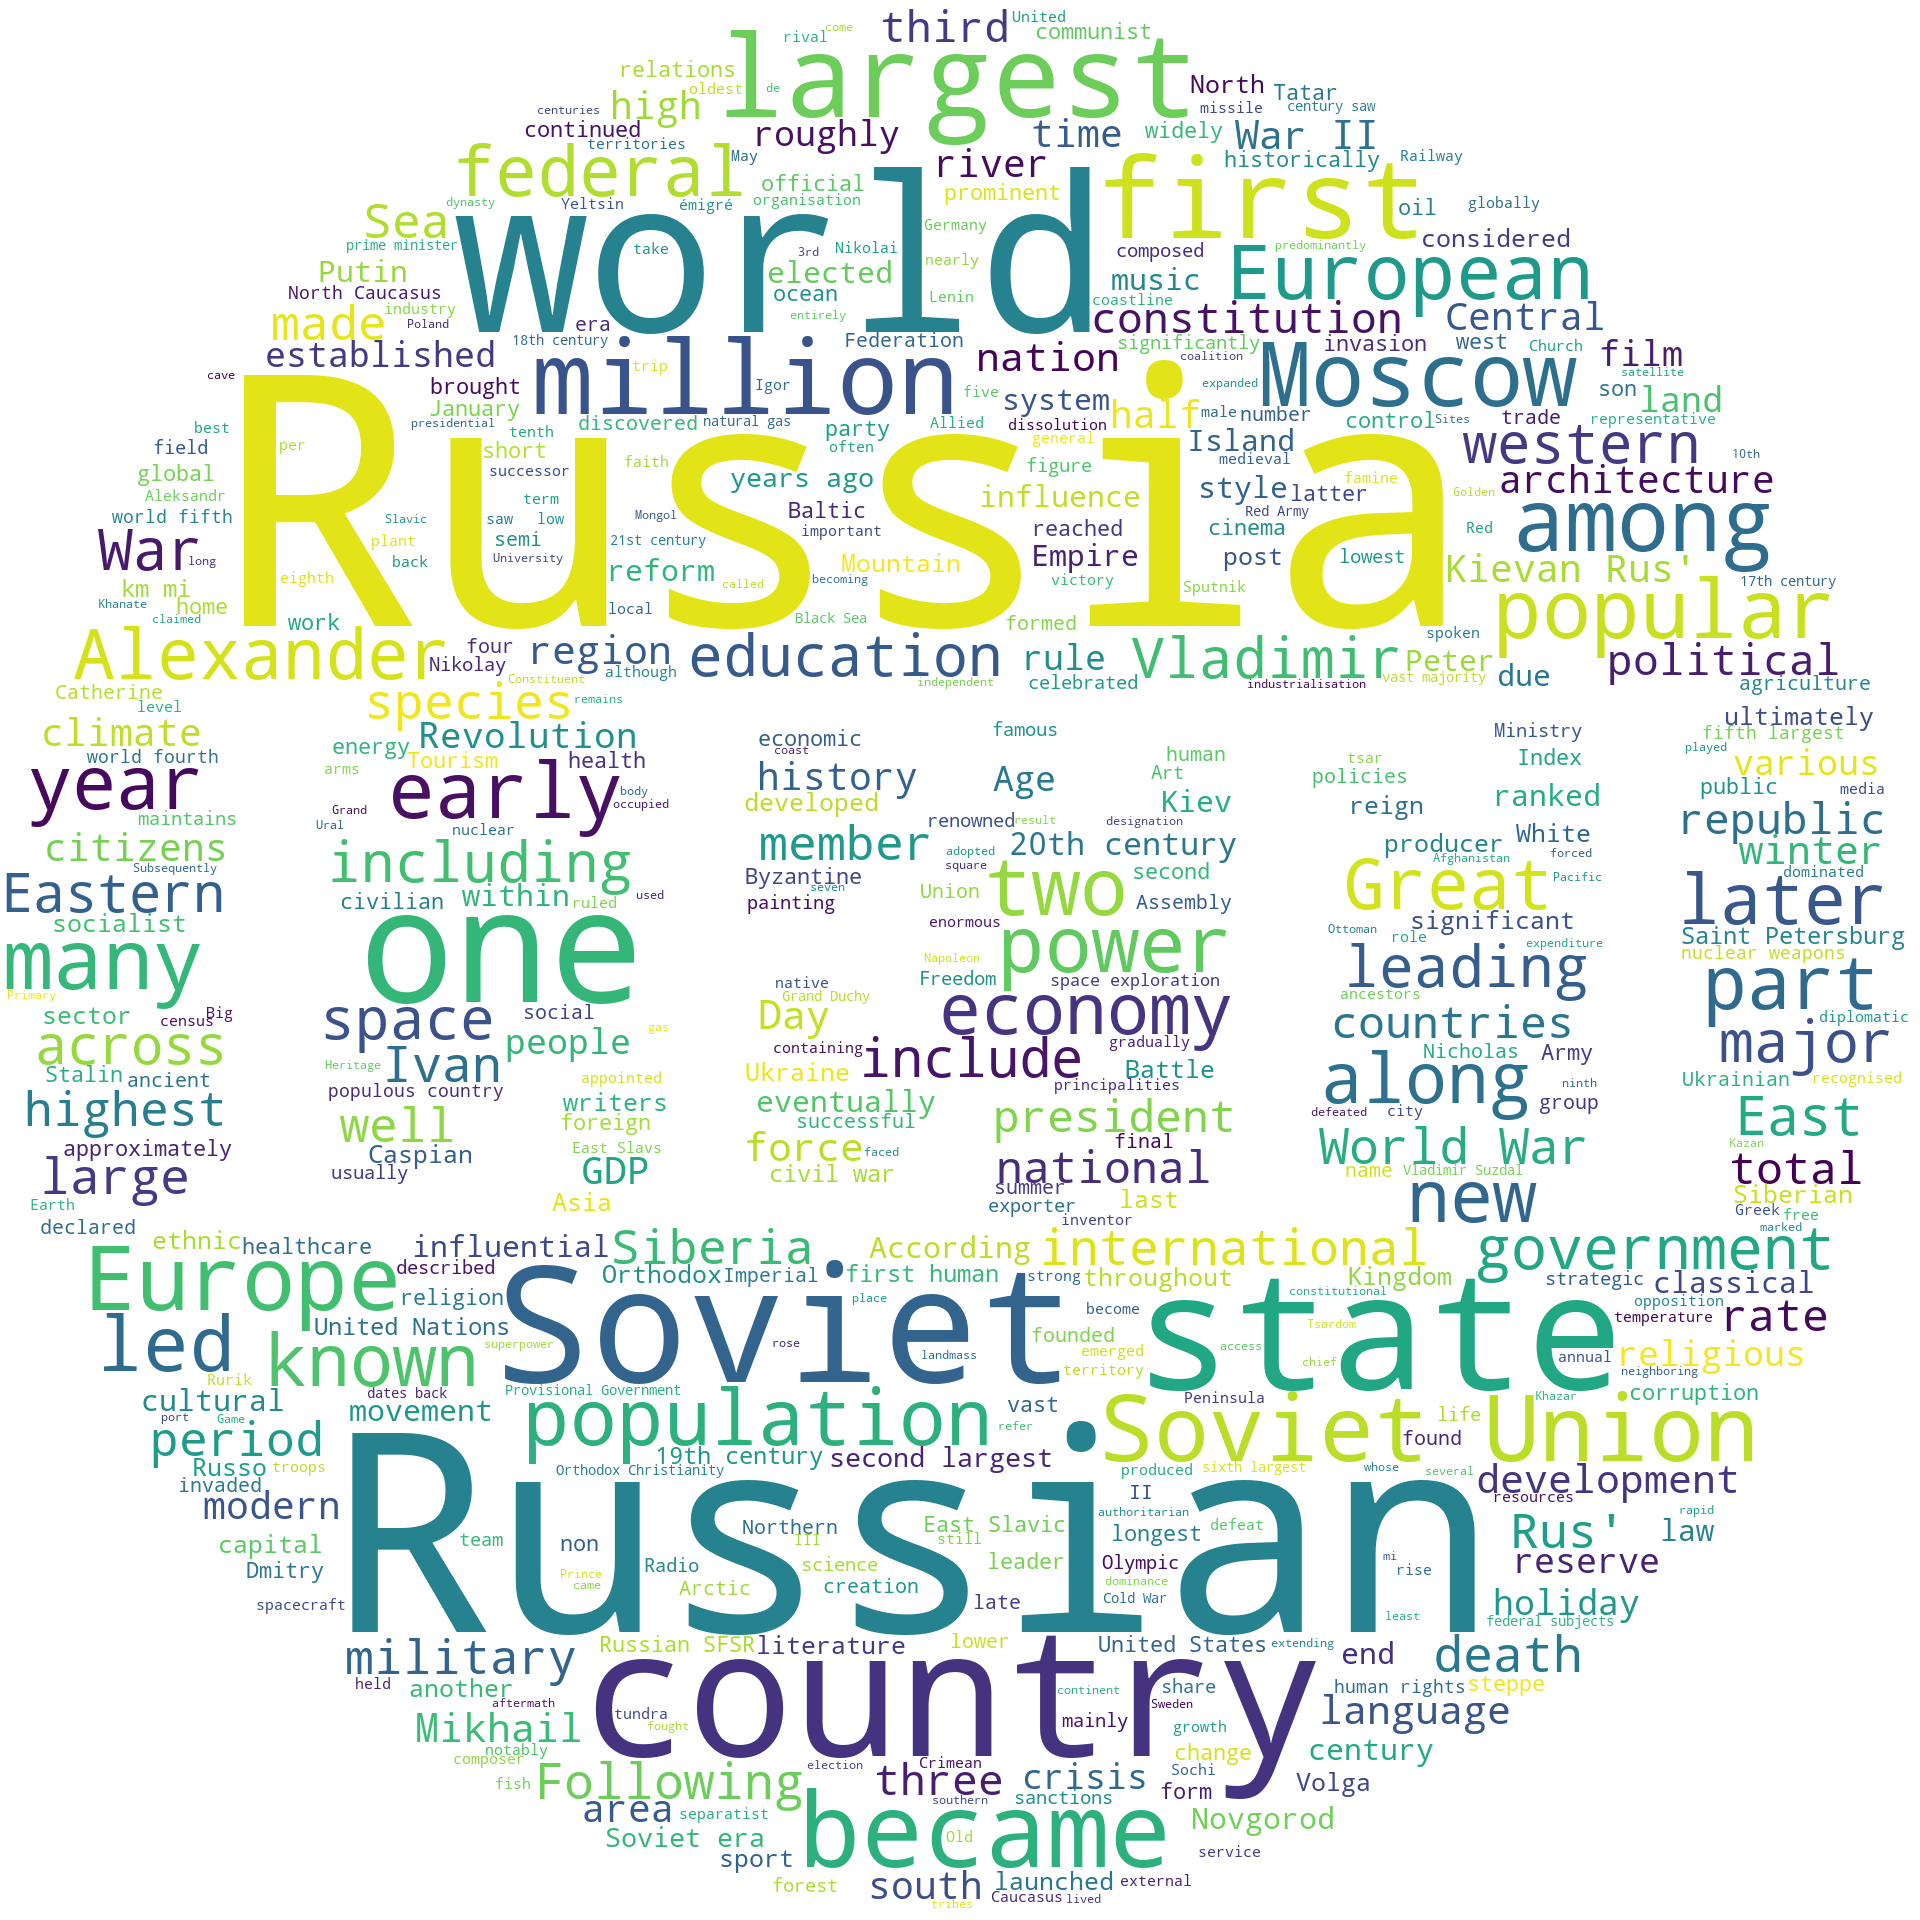
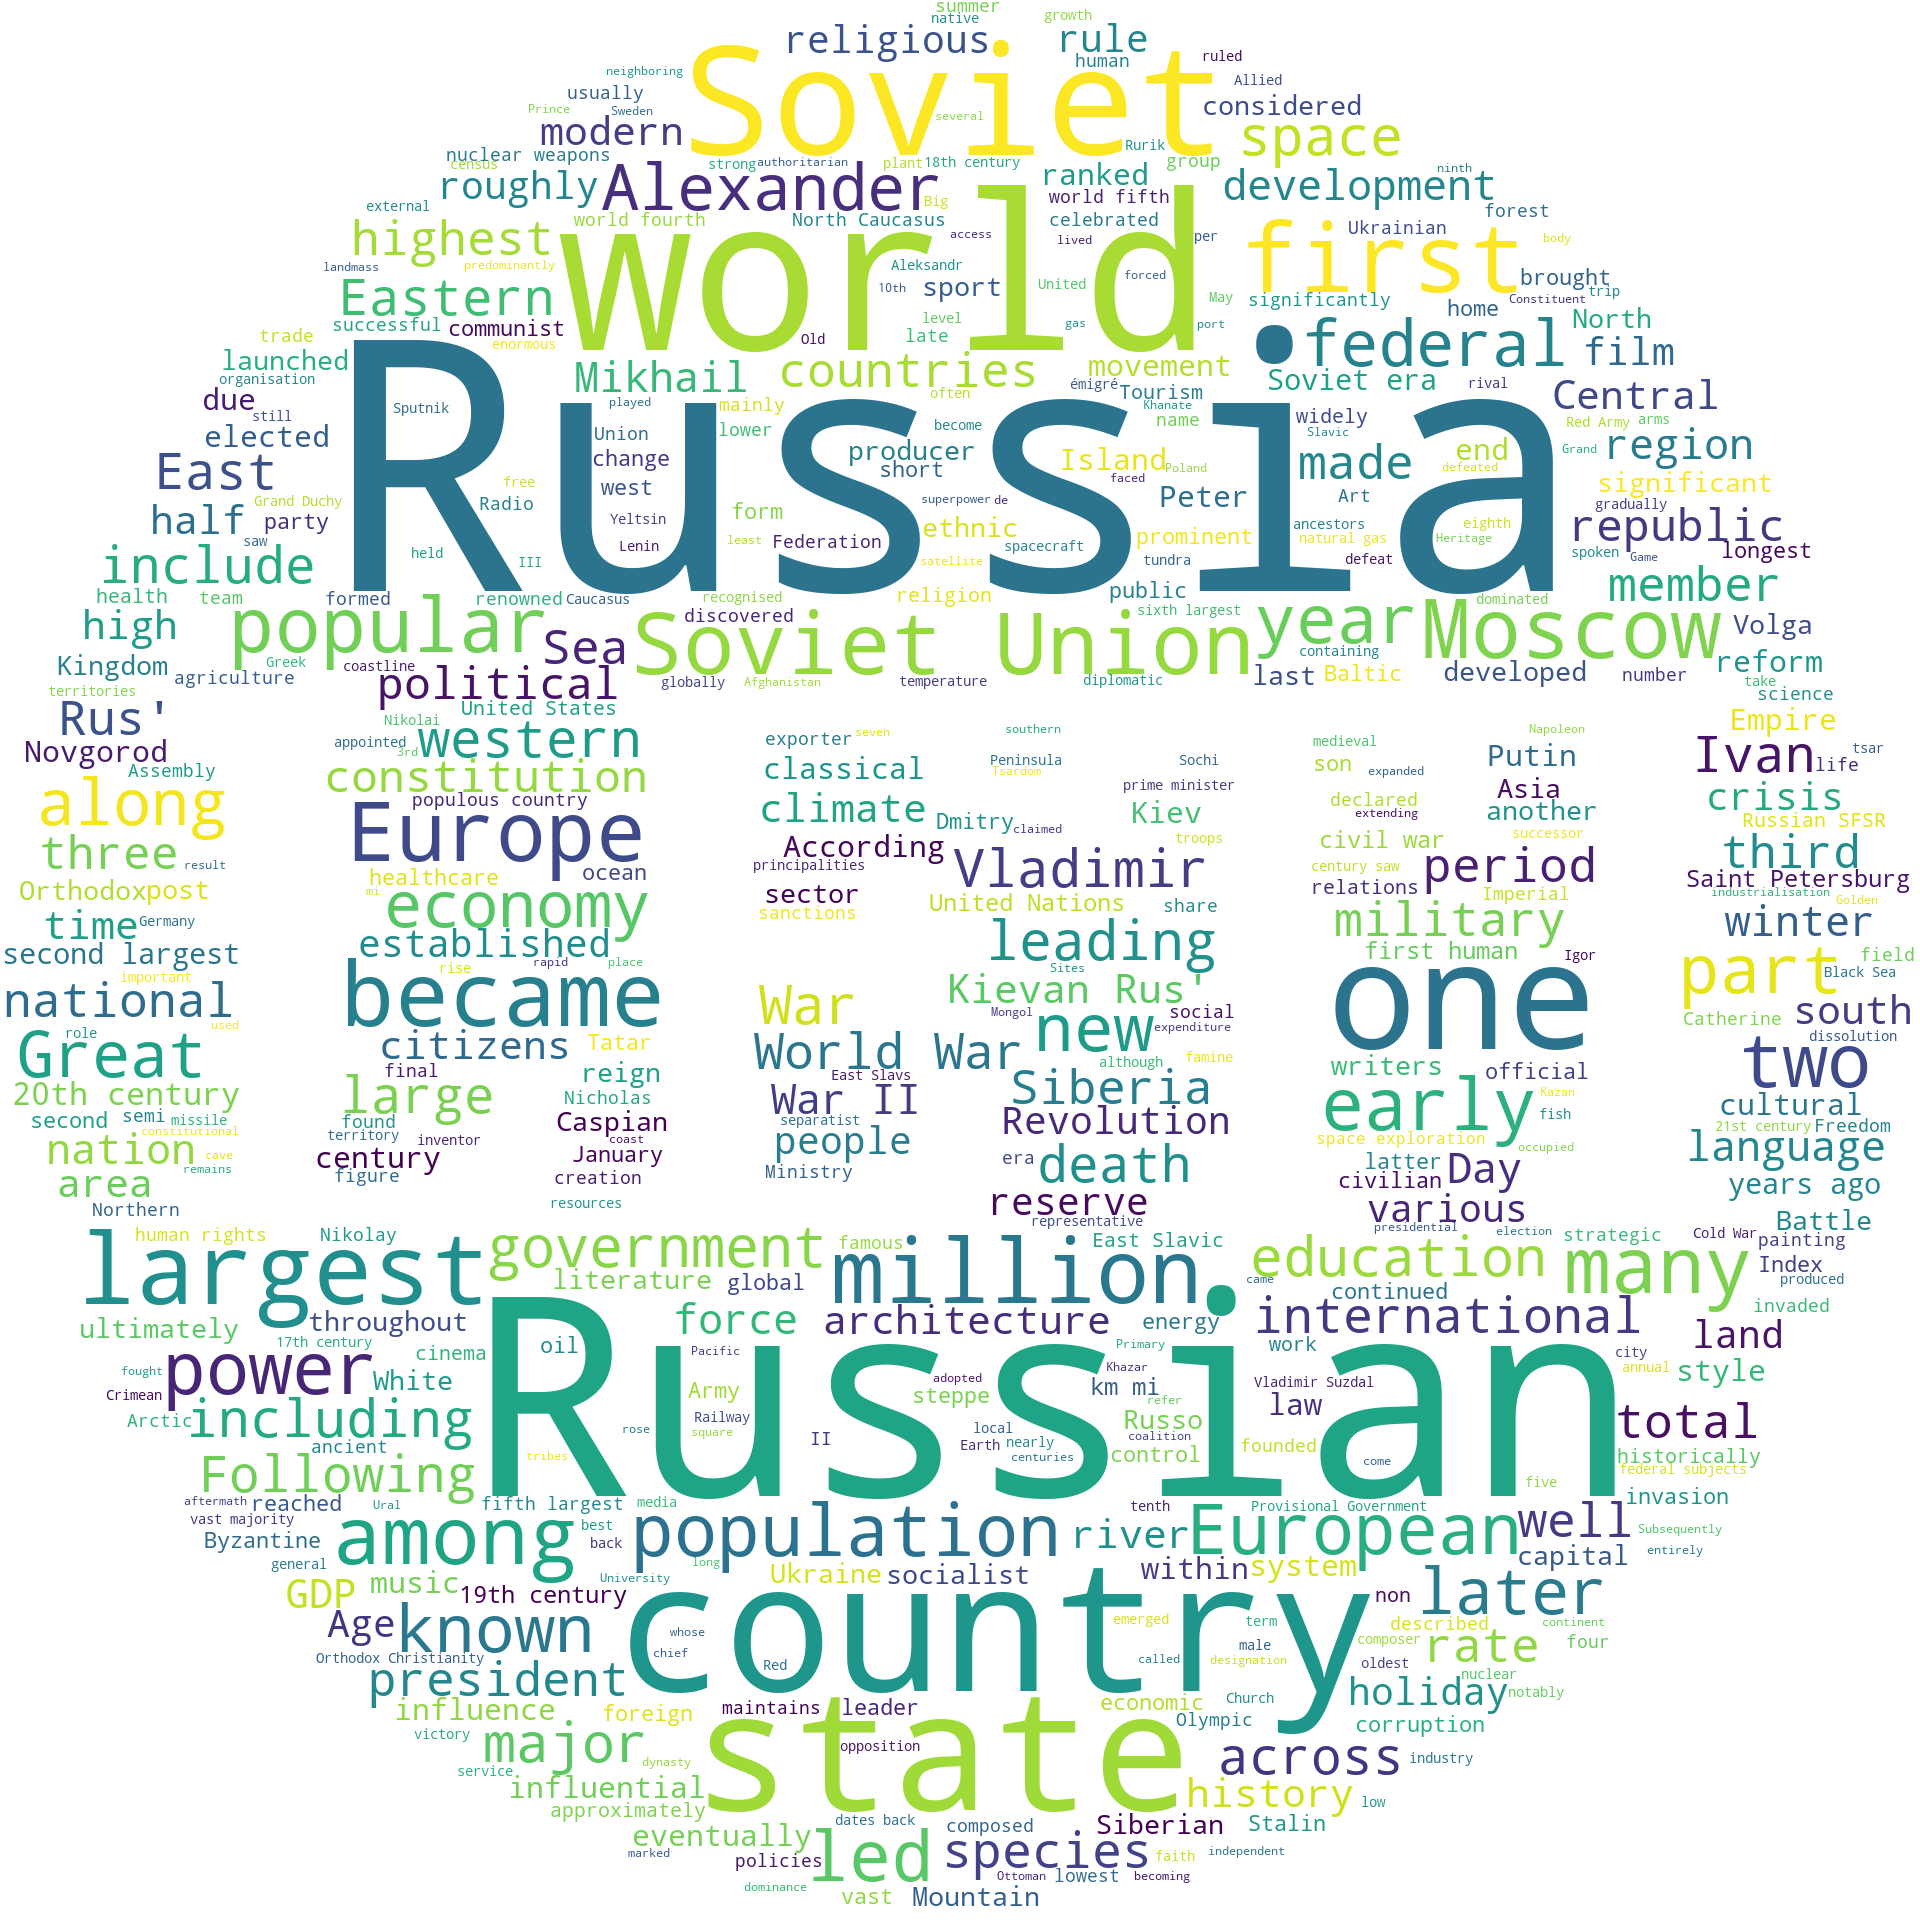
Сервис облака слов вынесен в отдельный файл

Changed region(s): [[0.0, 0.0, 1.0, 1.0]]

diff --git a/trunk/main.py b/trunk/main.py
@@ -1,38 +1,13 @@
 import sys
-from os import path
-import numpy as np
-from PIL import Image
 import wikipedia
-from wordcloud import WordCloud, STOPWORDS
-
 from datetime import datetime
 import emailhandler as e
-
-currdir = path.dirname(__file__)
+import wordcloudservice as wcs
 
 def get_wiki(query):
     title = wikipedia.search(query)[0]
     page = wikipedia.page(title)
     return page.content
-
-
-def create_wordcloud(text):
-    mask = np.array(Image.open(path.join(currdir, r"resources/cloud.jpg")))
-
-    stopwords = set(STOPWORDS)
-
-    wc = WordCloud(background_color="white",
-                   max_words=500,
-                   mask=mask,
-                   stopwords=stopwords,
-                   prefer_horizontal= 1,
-                   width=1920,
-                   height=1080,
-                   scale=1
-                   )
-
-    wc.generate(text)
-    wc.to_file(path.join(currdir, r"output/output.png"))
 
 
 if __name__ == "__main__":
@@ -41,7 +16,7 @@ if __name__ == "__main__":
     text = get_wiki(query)
     start_time = datetime.now()
     #text = "социология социлогию социология социологии"
-    create_wordcloud(text)
+    wcs.create_wordcloud(text)
 
     # Provide data with mail and external password from id.mail.ru/security
     # username = "mailru.parser.test@mail.ru"

diff --git a/trunk/wordcloudservice.py b/trunk/wordcloudservice.py
@@ -1,0 +1,24 @@
+import numpy as np
+from PIL import Image
+from wordcloud import WordCloud, STOPWORDS
+from os import path
+
+currdir = path.dirname(__file__)
+
+def create_wordcloud(text):
+    mask = np.array(Image.open(path.join(currdir, r"resources/cloud.jpg")))
+
+    stopwords = set(STOPWORDS)
+
+    wc = WordCloud(background_color="white",
+                   max_words=500,
+                   mask=mask,
+                   stopwords=stopwords,
+                   prefer_horizontal= 1,
+                   width=1920,
+                   height=1080,
+                   scale=1
+                   )
+
+    wc.generate(text)
+    wc.to_file(path.join(currdir, r"output/output.png"))
